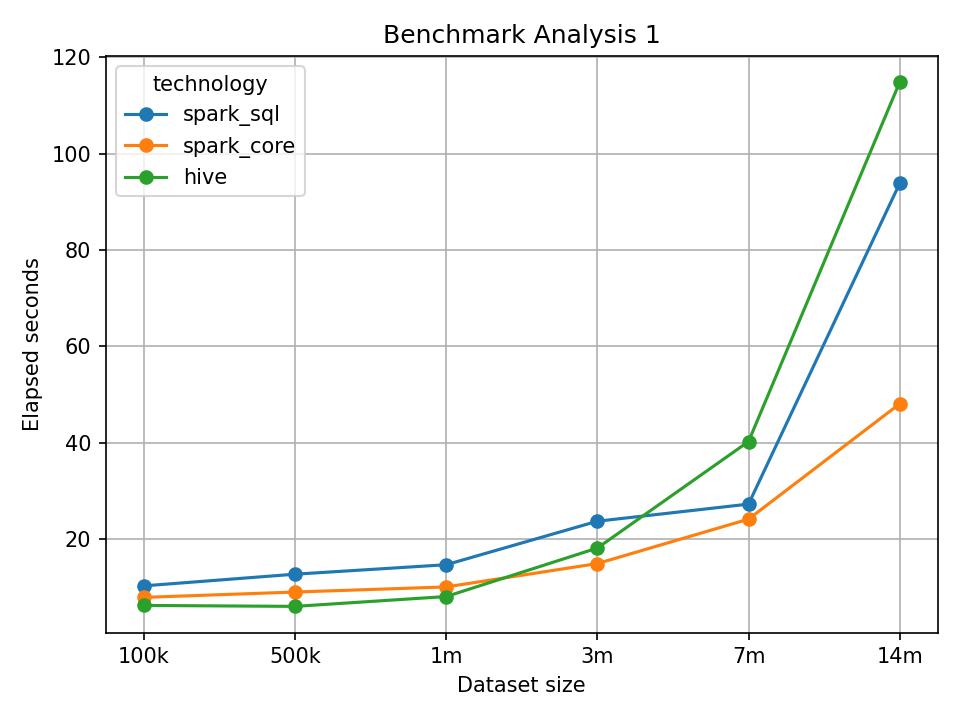
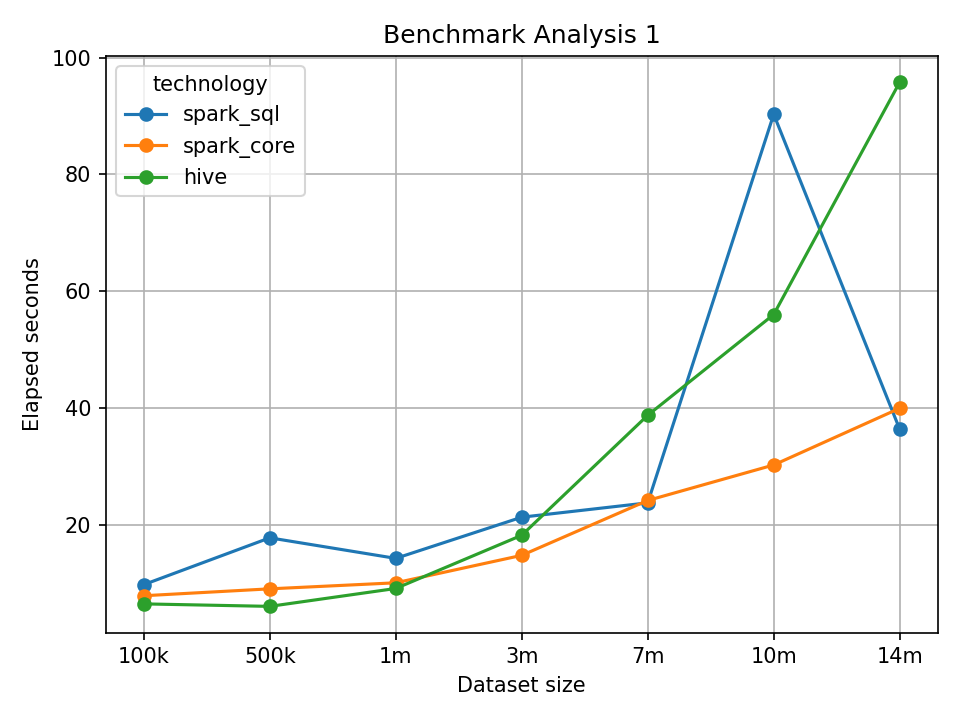
Add complete local benchmark results with 10M dataset

diff --git a/scripts/benchmark/create_benchmark_summary.py b/scripts/benchmark/create_benchmark_summary.py
@@ -1,4 +1,5 @@
 from pathlib import Path
+import warnings
 
 import pandas as pd
 import matplotlib.pyplot as plt
@@ -10,6 +11,11 @@ DOCS_DIR = Path("docs")
 
 DATASET_ORDER = ["100k", "500k", "1m", "3m", "7m", "10m", "14m"]
 TECHNOLOGY_ORDER = ["spark_sql", "spark_core", "hive"]
+
+
+def find_missing_datasets(df: pd.DataFrame) -> list[str]:
+    present_datasets = set(df["dataset_label"].dropna().astype(str))
+    return [label for label in DATASET_ORDER if label not in present_datasets]
 
 
 def load_benchmark_results() -> pd.DataFrame:
@@ -30,6 +36,16 @@ def load_benchmark_results() -> pd.DataFrame:
 
     if missing_columns:
         raise ValueError(f"Missing required columns: {sorted(missing_columns)}")
+
+    missing_datasets = find_missing_datasets(df)
+
+    if missing_datasets:
+        warnings.warn(
+            "Missing benchmark datasets: "
+            + ", ".join(missing_datasets)
+            + ". Completely empty rows will be omitted from the generated summary.",
+            stacklevel=2,
+        )
 
     df["dataset_label"] = pd.Categorical(
         df["dataset_label"],
@@ -60,6 +76,7 @@ def create_pivot(df: pd.DataFrame, analysis: str) -> pd.DataFrame:
 
     pivot = pivot.reindex(DATASET_ORDER)
     pivot = pivot[TECHNOLOGY_ORDER]
+    pivot = pivot.dropna(how="all")
     pivot = pivot.round(4)
 
     return pivot
@@ -119,8 +136,6 @@ def write_markdown_summary(
 
     summary_path = DOCS_DIR / "benchmark_summary.md"
 
-    max_dataset = df["dataset_label"].dropna().max()
-
     lines = [
         "# Benchmark Summary",
         "",
@@ -132,7 +147,7 @@ def write_markdown_summary(
         "- Spark Core",
         "- Hive",
         "",
-        "The benchmark includes both natural samples of increasing size and a replicated dataset.",
+        "The benchmark includes both natural samples of increasing size and controlled replicated datasets.",
         "",
         "## Dataset sizes",
         "",
@@ -145,6 +160,14 @@ def write_markdown_summary(
         "| 7m | Full cleaned dataset |",
         "| 10m | Full cleaned dataset plus partial controlled replication up to 10,000,000 rows |",
         "| 14m | Full cleaned dataset replicated 2 times |",
+        "",
+        "## Methodological notes",
+        "",
+        "- Benchmarks were executed on a local machine.",
+        "- Absolute execution times depend on the available hardware.",
+        "- The main focus is the relative scaling trend across technologies.",
+        "- Hive uses HiveServer2 and local Hadoop/MapReduce execution.",
+        "- The 10m and 14m datasets are generated with controlled replication.",
         "",
         "## Analysis 1 results",
         "",

diff --git a/docs/benchmark_summary.md b/docs/benchmark_summary.md
@@ -8,7 +8,7 @@ The benchmark compares the execution time of the two implemented analyses across
 - Spark Core
 - Hive
 
-The benchmark includes both natural samples of increasing size and a replicated dataset.
+The benchmark includes both natural samples of increasing size and controlled replicated datasets.
 
 ## Dataset sizes
 
@@ -19,46 +19,59 @@ The benchmark includes both natural samples of increasing size and a replicated 
 | 1m | First 1,000,000 rows of the cleaned dataset |
 | 3m | First 3,000,000 rows of the cleaned dataset |
 | 7m | Full cleaned dataset |
+| 10m | Full cleaned dataset plus partial controlled replication up to 10,000,000 rows |
 | 14m | Full cleaned dataset replicated 2 times |
+
+## Methodological notes
+
+- Benchmarks were executed on a local machine.
+- Absolute execution times depend on the available hardware.
+- The main focus is the relative scaling trend across technologies.
+- Hive uses HiveServer2 and local Hadoop/MapReduce execution.
+- The 10m and 14m datasets are generated with controlled replication.
 
 ## Analysis 1 results
 
-| dataset_label   |   spark_sql |   spark_core |     hive |
-|:----------------|------------:|-------------:|---------:|
-| 100k            |     10.3009 |       7.912  |   6.2415 |
-| 500k            |     12.7241 |       9.0201 |   6.0467 |
-| 1m              |     14.6874 |      10.0794 |   8.0841 |
-| 3m              |     23.7142 |      14.9266 |  18.1449 |
-| 7m              |     27.2627 |      24.1425 |  40.242  |
-| 14m             |     93.806  |      48.0775 | 114.8    |
+| dataset_label   |   spark_sql |   spark_core |    hive |
+|:----------------|------------:|-------------:|--------:|
+| 100k            |      9.7335 |       7.8313 |  6.4358 |
+| 500k            |     17.7531 |       9.0133 |  6.0095 |
+| 1m              |     14.2316 |      10.0475 |  9.077  |
+| 3m              |     21.287  |      14.7508 | 18.1905 |
+| 7m              |     23.7462 |      24.1499 | 38.7453 |
+| 10m             |     90.3074 |      30.233  | 56.0079 |
+| 14m             |     36.3494 |      39.9491 | 95.7998 |
 
 ## Analysis 2 results
 
 | dataset_label   |   spark_sql |   spark_core |     hive |
 |:----------------|------------:|-------------:|---------:|
-| 100k            |     11.2097 |       7.7875 |  11.087  |
-| 500k            |     13.2064 |       9.2573 |  16.879  |
-| 1m              |     13.243  |      10.4261 |  20.8591 |
-| 3m              |     15.7831 |      15.6262 |  41.0528 |
-| 7m              |     19.8396 |      26.076  |  90.2658 |
-| 14m             |     38.3424 |      52.0413 | 276.202  |
+| 100k            |     11.246  |       7.7389 |  11.176  |
+| 500k            |     12.8103 |       9.082  |  16.9733 |
+| 1m              |     13.3523 |      10.4034 |  20.9947 |
+| 3m              |     15.2111 |      15.3543 |  41.0753 |
+| 7m              |     20.2318 |      25.8971 |  88.7832 |
+| 10m             |     25.7358 |      33.4658 | 132.081  |
+| 14m             |     25.8074 |      43.6489 | 168.883  |
 
 ## Fastest technology by analysis and dataset
 
 | analysis   | dataset_label   | fastest_technology   |   fastest_seconds | slowest_technology   |   slowest_seconds |   speedup_vs_slowest |
 |:-----------|:----------------|:---------------------|------------------:|:---------------------|------------------:|---------------------:|
-| analysis_1 | 100k            | hive                 |            6.2415 | spark_sql            |           10.3009 |               1.6504 |
-| analysis_1 | 500k            | hive                 |            6.0467 | spark_sql            |           12.7241 |               2.1043 |
-| analysis_1 | 1m              | hive                 |            8.0841 | spark_sql            |           14.6874 |               1.8168 |
-| analysis_1 | 3m              | spark_core           |           14.9266 | spark_sql            |           23.7142 |               1.5887 |
-| analysis_1 | 7m              | spark_core           |           24.1425 | hive                 |           40.242  |               1.6669 |
-| analysis_1 | 14m             | spark_core           |           48.0775 | hive                 |          114.8    |               2.3878 |
-| analysis_2 | 100k            | spark_core           |            7.7875 | spark_sql            |           11.2097 |               1.4394 |
-| analysis_2 | 500k            | spark_core           |            9.2573 | hive                 |           16.879  |               1.8233 |
-| analysis_2 | 1m              | spark_core           |           10.4261 | hive                 |           20.8591 |               2.0007 |
-| analysis_2 | 3m              | spark_core           |           15.6262 | hive                 |           41.0528 |               2.6272 |
-| analysis_2 | 7m              | spark_sql            |           19.8396 | hive                 |           90.2658 |               4.5498 |
-| analysis_2 | 14m             | spark_sql            |           38.3424 | hive                 |          276.202  |               7.2036 |
+| analysis_1 | 100k            | hive                 |            6.4358 | spark_sql            |            9.7335 |               1.5124 |
+| analysis_1 | 500k            | hive                 |            6.0095 | spark_sql            |           17.7531 |               2.9542 |
+| analysis_1 | 1m              | hive                 |            9.077  | spark_sql            |           14.2316 |               1.5679 |
+| analysis_1 | 3m              | spark_core           |           14.7508 | spark_sql            |           21.287  |               1.4431 |
+| analysis_1 | 7m              | spark_sql            |           23.7462 | hive                 |           38.7453 |               1.6316 |
+| analysis_1 | 10m             | spark_core           |           30.233  | spark_sql            |           90.3074 |               2.987  |
+| analysis_1 | 14m             | spark_sql            |           36.3494 | hive                 |           95.7998 |               2.6355 |
+| analysis_2 | 100k            | spark_core           |            7.7389 | spark_sql            |           11.246  |               1.4532 |
+| analysis_2 | 500k            | spark_core           |            9.082  | hive                 |           16.9733 |               1.8689 |
+| analysis_2 | 1m              | spark_core           |           10.4034 | hive                 |           20.9947 |               2.0181 |
+| analysis_2 | 3m              | spark_sql            |           15.2111 | hive                 |           41.0753 |               2.7004 |
+| analysis_2 | 7m              | spark_sql            |           20.2318 | hive                 |           88.7832 |               4.3883 |
+| analysis_2 | 10m             | spark_sql            |           25.7358 | hive                 |          132.081  |               5.1322 |
+| analysis_2 | 14m             | spark_sql            |           25.8074 | hive                 |          168.883  |               6.544  |
 
 ## Main observations
 
